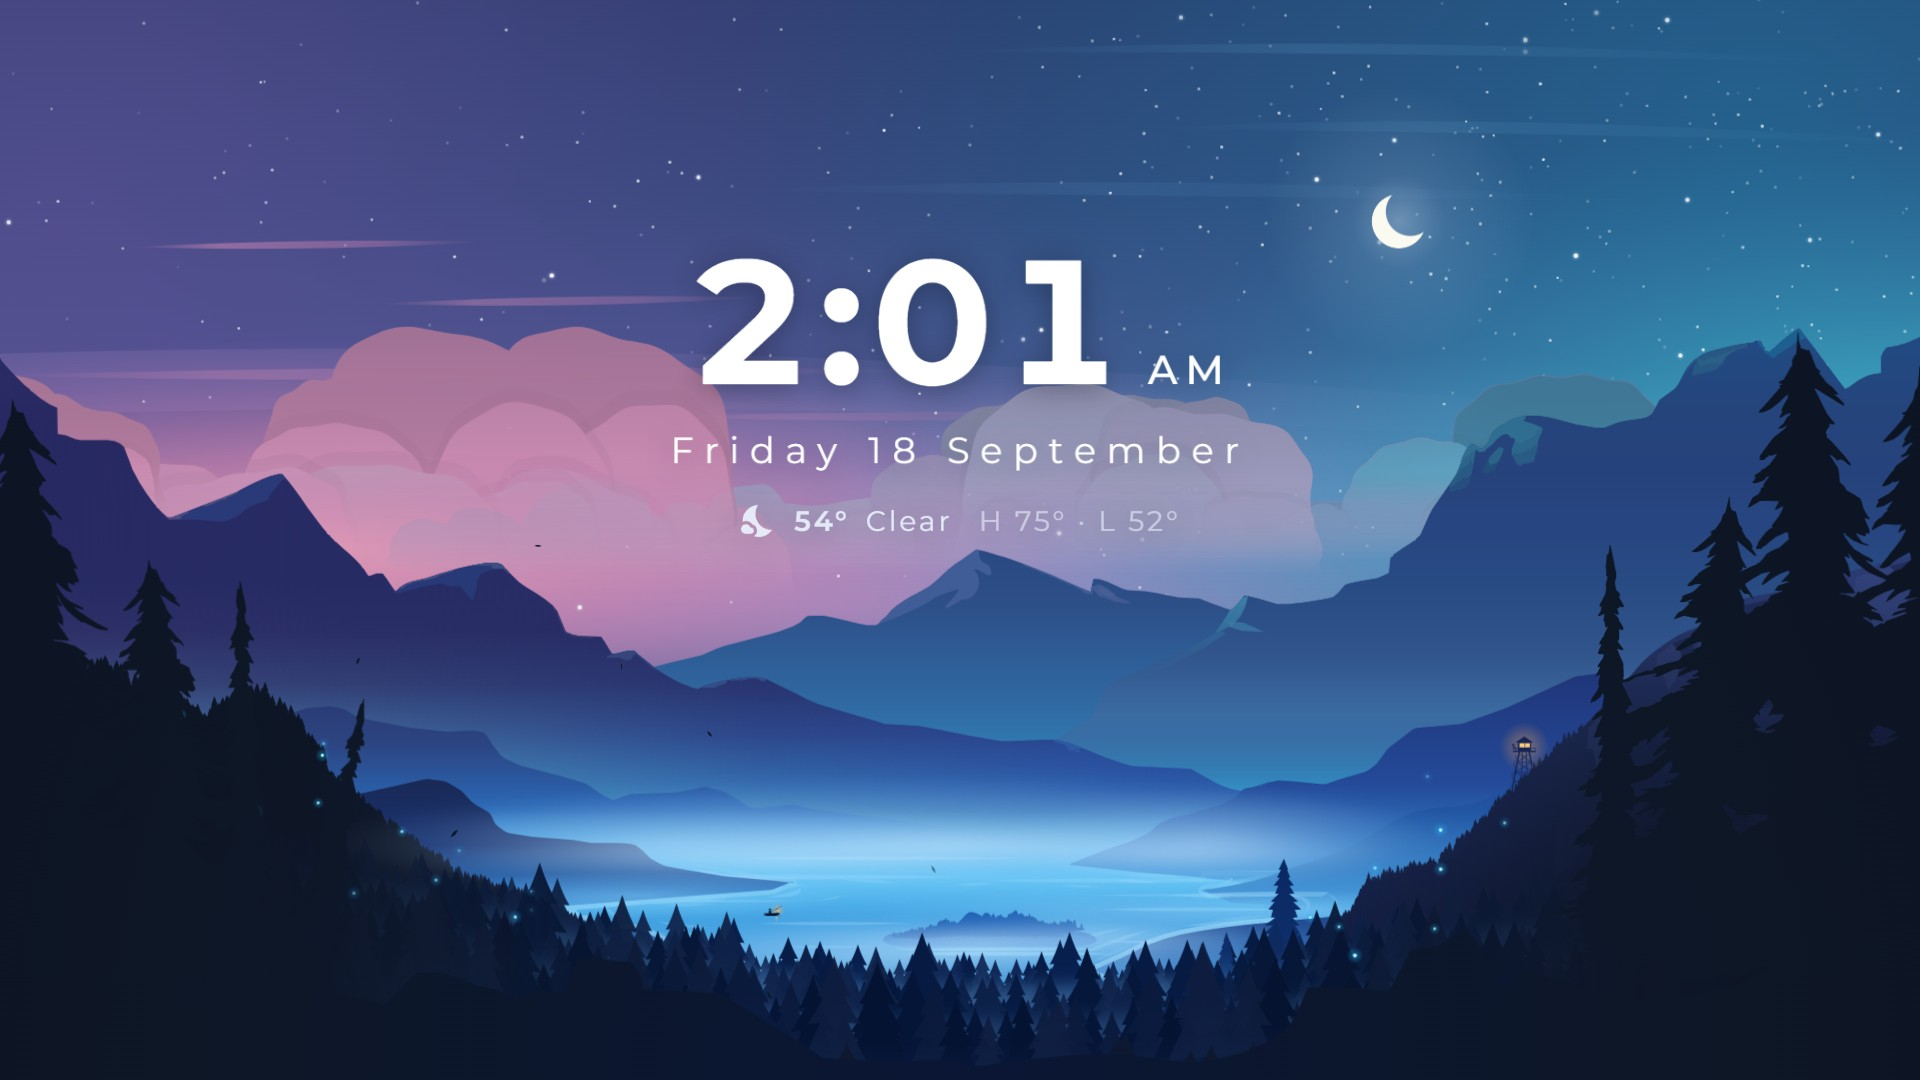
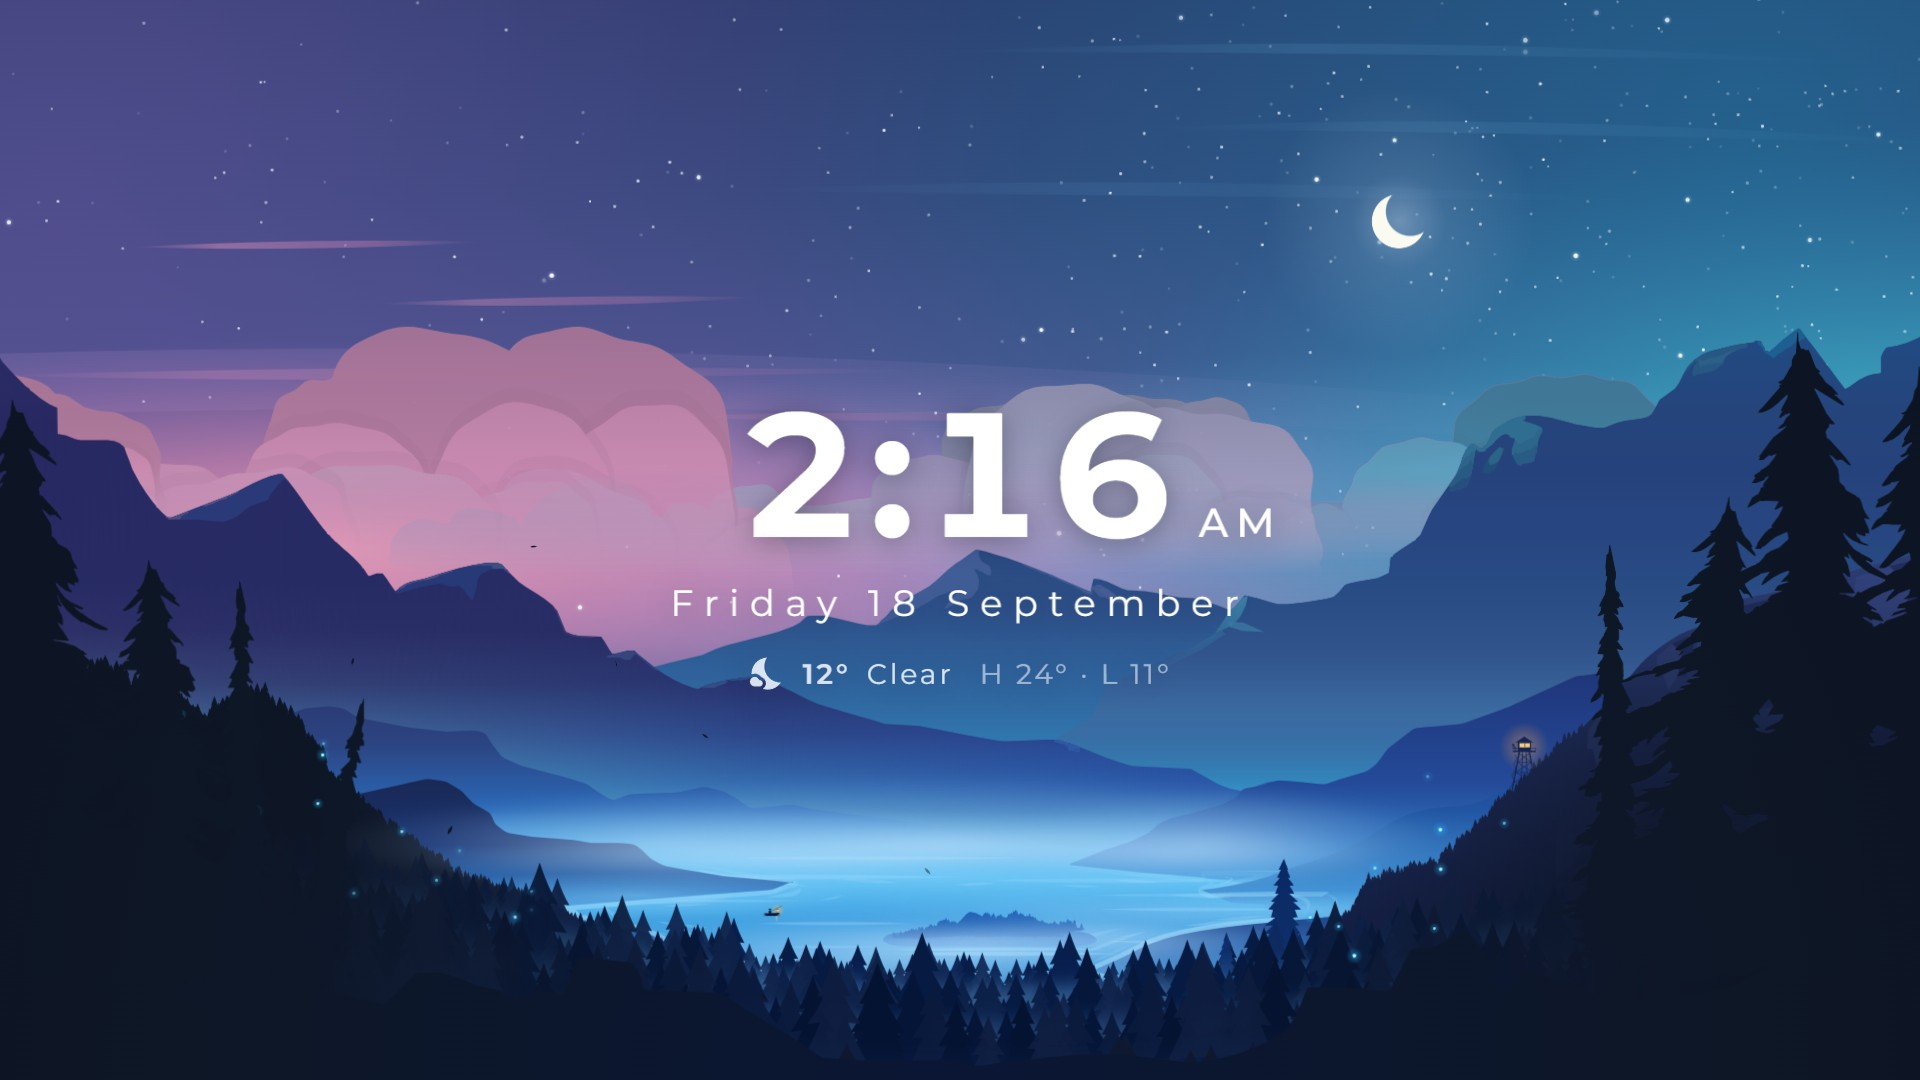
Centre the time, date and weather on the screen, and build the wallpaper out of the way of the dev server
The time, date and weather now sit in the middle of the screen, in front of the scenery (drifting with the mouse at
about the valley's depth), scaled to fit the screen.

npm run wallpaper builds from a copy of the project in .wallpaper-build: with a custom export folder Next still builds
into .next, which broke a running dev server.

diff --git a/app/wallpaper/clock/index.tsx b/app/wallpaper/clock/index.tsx
@@ -1,20 +1,20 @@
 'use client'
 
-// The wallpaper's title: the time, with the day and date and the weather beneath, in the gap above the mountains where
-// the site's logo sits. Laid out at a natural width and scaled with the art like the logo, and anchored by its bottom
-// edge, so however many lines are showing it rises from just above the near mountains' peak.
+// The wallpaper's centrepiece: the time, with the day and date and the weather beneath, centred on the screen. Laid out
+// at a natural size and scaled with the screen (to fit the smaller of its width and height), and centred as a whole, so
+// whichever lines are showing stay in the middle.
 
 import { useEffect, useRef, useState } from 'react'
 import { AcUnit, Cloud, Dehaze, FilterDrama, Grain, NightsStay, Thunderstorm, WaterDrop, WbSunny } from '@mui/icons-material'
-
-import logo from '@/app/(landing)/logo/logo.module.css'
 
 import { useSettings } from '../settings'
 import { describe, useWeather, type Unit, type Weather } from '../weather'
 import styles from './clock.module.css'
 
 const NATURAL_WIDTH = 960
-const BOTTOM = 56 // how far below the logo slot's line the block's bottom sits, at natural size
+// The screen size the block is drawn at its natural size for (a 1080p screen shows it a little smaller)
+const DESIGN_WIDTH = 2000
+const DESIGN_HEIGHT = 1125
 
 // The current time, updated as the minute turns, or each second when they're showing (checked a few times a second, so
 // it catches up straight after a sleep and the seconds never skip one)
@@ -61,14 +61,14 @@ export default function Clock() {
     const now = useNow(clock && seconds)
     const weather = useWeather(showWeather, location, units === 'auto' ? localUnit() : units)
 
-    // Scaled to the slot's width, like the logo
-    const slotRef = useRef<HTMLDivElement>(null)
+    // Scaled with the screen
+    const screenRef = useRef<HTMLDivElement>(null)
     const [scale, setScale] = useState(1)
     useEffect(() => {
-        const slot = slotRef.current
-        if (!slot) return
-        const observer = new ResizeObserver(() => setScale(slot.offsetWidth / NATURAL_WIDTH))
-        observer.observe(slot)
+        const screen = screenRef.current
+        if (!screen) return
+        const observer = new ResizeObserver(() => setScale(Math.min(screen.offsetWidth / DESIGN_WIDTH, screen.offsetHeight / DESIGN_HEIGHT)))
+        observer.observe(screen)
         return () => observer.disconnect()
     }, [])
 
@@ -82,27 +82,25 @@ export default function Clock() {
     const dateText = now && new Intl.DateTimeFormat(undefined, { weekday: 'long', day: 'numeric', month: 'long' }).format(now)
 
     return (
-        <div className={logo.canvas}>
-            <div ref={slotRef} className={logo.slot}>
-                <div className={`${styles.block} select-none`} style={{ width: NATURAL_WIDTH, transform: `translate(-50%, -100%) translateY(${BOTTOM * scale}px) scale(${scale * size / 100})` }}>
-                    {clock && clockText && (
-                        <div className={`${styles.time} ${styles.rise}`}>
-                            {clockText}
-                            {period && <span className={styles.periodAnchor}><span className={styles.period}>{period}</span></span>}
-                        </div>
-                    )}
-                    {date && dateText && <div className={`${styles.date} ${styles.rise}`} style={{ animationDelay: '0.25s' }}>{dateText}</div>}
-                    {/* (room kept for the weather until it arrives, so the lines above don't jump when it does) */}
-                    {showWeather && !weather && <div className={styles.weather} aria-hidden />}
-                    {weather && (
-                        <div className={`${styles.weather} ${styles.rise}`} style={{ animationDelay: '0.5s' }}>
-                            <WeatherIcon weather={weather} />
-                            <span className={styles.temperature}>{weather.temperature}°</span>
-                            <span>{describe(weather.code)}</span>
-                            {highLow && <span className={styles.range}>H {weather.high}° · L {weather.low}°</span>}
-                        </div>
-                    )}
-                </div>
+        <div ref={screenRef} className={styles.screen}>
+            <div className={`${styles.block} select-none`} style={{ width: NATURAL_WIDTH, transform: `translate(-50%, -50%) scale(${scale * size / 100})` }}>
+                {clock && clockText && (
+                    <div className={`${styles.time} ${styles.rise}`}>
+                        {clockText}
+                        {period && <span className={styles.periodAnchor}><span className={styles.period}>{period}</span></span>}
+                    </div>
+                )}
+                {date && dateText && <div className={`${styles.date} ${styles.rise}`} style={{ animationDelay: '0.25s' }}>{dateText}</div>}
+                {/* (room kept for the weather until it arrives, so the lines above don't jump when it does) */}
+                {showWeather && !weather && <div className={styles.weather} aria-hidden />}
+                {weather && (
+                    <div className={`${styles.weather} ${styles.rise}`} style={{ animationDelay: '0.5s' }}>
+                        <WeatherIcon weather={weather} />
+                        <span className={styles.temperature}>{weather.temperature}°</span>
+                        <span>{describe(weather.code)}</span>
+                        {highLow && <span className={styles.range}>H {weather.high}° · L {weather.low}°</span>}
+                    </div>
+                )}
             </div>
         </div>
     )

diff --git a/app/(landing)/parallax/index.tsx b/app/(landing)/parallax/index.tsx
@@ -78,7 +78,7 @@ function LiteLayer({ speed, className = styles.layer, style, children }: LayerPr
 }
 
 // The full hero: every part of the scene at its own depth, each springing after the scroll. The desktop wallpaper
-// (app/wallpaper) shows the same scene with layers that follow the mouse instead, its own title, and no note.
+// (app/wallpaper) shows the same scene with layers that follow the mouse instead, and no title or note.
 type SceneProps = { ui: string, Layer?: React.ComponentType<LayerProps>, title?: React.ReactNode, note?: boolean }
 export function FullScene({ ui, Layer = ScrollLayer, title = <AnimatedLogo />, note = true }: SceneProps) {
     return (
@@ -96,11 +96,13 @@ export function FullScene({ ui, Layer = ScrollLayer, title = <AnimatedLogo />, n
                 <Image priority src={MountainsFar} alt='MountainsFar' fill className='object-cover' />
             </Layer>
 
-            <Layer speed={0.005}>
-                <div className={`absolute inset-0 ${ui}`}>
-                    {title}
-                </div>
-            </Layer>
+            {title && (
+                <Layer speed={0.005}>
+                    <div className={`absolute inset-0 ${ui}`}>
+                        {title}
+                    </div>
+                </Layer>
+            )}
 
             <Layer speed={0.5}>
                 <Image priority src={MountainsNear} alt='' fill className='object-cover' />

diff --git a/app/wallpaper/page.tsx b/app/wallpaper/page.tsx
@@ -1,7 +1,7 @@
 'use client'
 
 // The hero scene as a desktop wallpaper for Wallpaper Engine (built into a folder of its own by scripts/wallpaper.mjs).
-// Just the scenery, with the time, date and weather where the site's title is, filling the screen: nothing scrolls, and
+// Just the scenery, with the time, date and weather in the middle of the screen, filling the screen: nothing scrolls, and
 // instead of following the scroll each layer drifts with the mouse by its depth, so the foreground trees move the most
 // and the sky barely at all.
 
@@ -72,7 +72,11 @@ export default function Wallpaper() {
             <div className='relative h-svh overflow-hidden bg-[#0b101f]'>
                 <section className={`absolute inset-x-0 top-0 h-[200svh] ${paused ? styles.paused : ''}`}
                     style={{ transform: `scale(${overscan})`, transformOrigin: '50% 50svh' }}>
-                    <FullScene ui='' Layer={MouseLayer} title={<Clock />} note={false} />
+                    <FullScene ui='' Layer={MouseLayer} title={null} note={false} />
+                    {/* The time, date and weather, in front of the scenery, drifting at about the valley's depth */}
+                    <MouseLayer speed={0.4}>
+                        <Clock />
+                    </MouseLayer>
                 </section>
             </div>
         </ThemeProvider>

diff --git a/next.config.ts b/next.config.ts
@@ -1,14 +1,13 @@
 import type { NextConfig } from "next";
 
-// `npm run wallpaper` builds with WALLPAPER_EXPORT set: a static export (no server, so no image resizing either), kept in
-// a build folder of its own so it doesn't disturb the site's. See scripts/wallpaper.mjs.
+// `npm run wallpaper` builds with WALLPAPER_EXPORT set: a static export (no server, so no image resizing either), from a
+// copy of the project so it doesn't disturb the site's own build. See scripts/wallpaper.mjs.
 const wallpaper = process.env.WALLPAPER_EXPORT === "1";
 
 const nextConfig: NextConfig = {
   reactStrictMode: false,
   ...(wallpaper && {
     output: "export",
-    distDir: ".next-wallpaper",
     images: { unoptimized: true },
   }),
 };

diff --git a/app/wallpaper/clock/clock.module.css b/app/wallpaper/clock/clock.module.css
@@ -1,13 +1,19 @@
-/* The block of lines, at its natural size: its bottom edge sits on the slot's line (see index.tsx), and it scales
-   from there */
+/* The screen's area, at the top of the two-screen-tall layer */
+.screen {
+    position: absolute;
+    inset: 0 0 auto 0;
+    height: 100svh;
+}
+
+/* The block of lines, at its natural size, centred on the screen and scaled from its centre (see index.tsx) */
 .block {
     position: absolute;
     left: 50%;
-    top: 0;
+    top: 50%;
     display: flex;
     flex-direction: column;
     align-items: center;
-    transform-origin: bottom center;
+    transform-origin: center;
     color: #fff;
     text-shadow: 0 4px 30px rgba(11, 16, 31, 0.35);
     white-space: nowrap;
